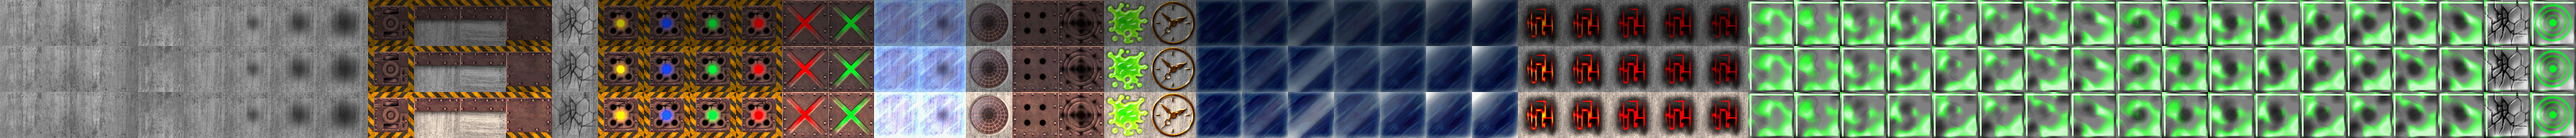
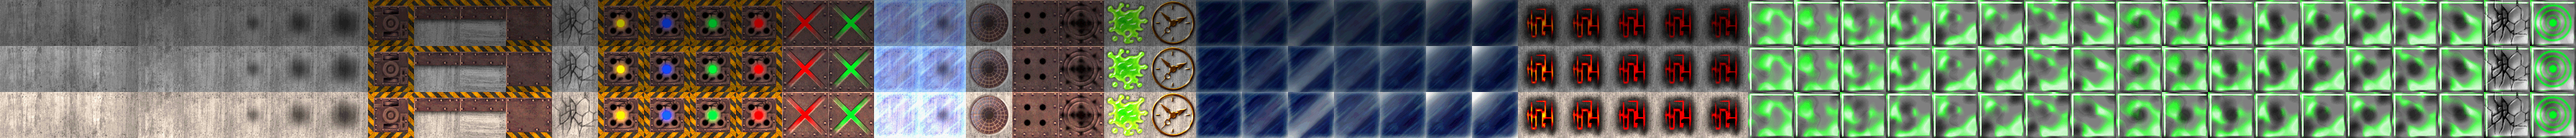
Paint each texture through the palette row its record names
The atlas took a texture's palettes from a scan of the VRAM page that
kept a row only where all 256 words carried the top bit and 32 of them
differed, and painted an index-grey ramp wherever the row the record
named was not among them, or a texture had no record, with no word said.
Arctic's nine stones, the four the world changes, the plain one with its
three shadowed variants and the cracked one, take palettes of 23 greys
in the dark shade and 25 in the bright, which the scan refused, so the
map drew their -y and +y faces through the ramp. The record already
names the row, so the atlas reads the 256 words there, and stops on a
texture without a record or a row outside the page. Arctic's atlas is
rebuilt from the disc; the other nine come out as they were.

diff --git a/tools/tests/test_kula_tex.py b/tools/tests/test_kula_tex.py
@@ -1,0 +1,76 @@
+"""Unit tests for the atlas writer: python3 -m unittest discover -s tools/tests
+
+Nothing here needs the disc.
+"""
+
+import struct
+import sys
+import unittest
+from pathlib import Path
+
+sys.path.insert(0, str(Path(__file__).resolve().parents[1]))
+
+import kula_tgi as tgi  # noqa: E402
+from kula_tex import SHADES, SIZE, atlas  # noqa: E402
+
+TEX_AT = (64, 0)
+ROWS = (5, 6, 7)
+# every index 16 times over, so each palette entry is painted somewhere
+PIXELS = bytes(range(256)) * 16
+
+PALETTES = {
+    5: [0x8000 | (v & 31) | ((v >> 3) << 10) for v in range(256)],
+    # index 0 without its top bit, as a transparent black is stored
+    6: [0] + [0x8000 | (v << 5) | 7 for v in range(1, 256)],
+    # fourteen greys
+    7: [0x8000 | ((v // 19 + 10) * 0x421) for v in range(256)],
+}
+
+
+def upload(x, y, w, h, words):
+    return struct.pack("<4H", x, y, w, h) + words
+
+
+def tgi_blob(rows=ROWS, record=True):
+    art = upload(*TEX_AT, 32, 64, PIXELS)
+    for row, words in PALETTES.items():
+        art += upload(768, row, 256, 1, struct.pack("<256H", *words))
+    rec = [0] * tgi.MAP_STRIDE
+    rec[3], rec[4] = TEX_AT
+    rec[5:5 + SHADES] = rows
+    quads = struct.pack(f"<{tgi.MAP_STRIDE}H", *rec) if record else b""
+    counts = [0] * tgi.SECTIONS
+    counts[tgi.MAP] = len(quads) // 2
+    counts[tgi.ART] = len(art) // 2
+    header = bytearray(tgi.HEADER)
+    struct.pack_into(f"<{tgi.SECTIONS}I", header, tgi.COUNTS_AT, *counts)
+    return bytes(header) + quads + art
+
+
+class TheAtlas(unittest.TestCase):
+    def test_each_shade_is_painted_through_the_palette_row_its_record_names(self):
+        W, H, px, n = atlas(tgi_blob())
+        self.assertEqual((W, H, n), (SIZE, SHADES * SIZE, 1))
+        for k, row in enumerate(ROWS):
+            for v in (0, 1, 77, 255):
+                y, x = divmod(PIXELS.index(v), SIZE)
+                o = ((k * SIZE + y) * W + x) * 4
+                self.assertEqual(tuple(px[o:o + 4]), (*tgi.rgb(PALETTES[row][v]), 255))
+
+    def test_a_palette_the_heuristic_scan_refuses_is_read_all_the_same(self):
+        page = tgi.vram(tgi_blob())
+        self.assertEqual([row for row, _ in tgi.cluts(page)], [5])
+        self.assertEqual(tgi.palette(page, 6)[0], (0, 0, 0))
+        self.assertEqual(tgi.palette(page, 7)[0], tgi.rgb(PALETTES[7][0]))
+
+    def test_a_texture_without_a_record_stops_the_build(self):
+        with self.assertRaises(SystemExit):
+            atlas(tgi_blob(record=False))
+
+    def test_a_row_outside_vram_stops_the_build(self):
+        with self.assertRaises(SystemExit):
+            atlas(tgi_blob(rows=(5, 6, tgi.VRAM_H)))
+
+
+if __name__ == "__main__":
+    unittest.main()

diff --git a/tools/kula_tex.py b/tools/kula_tex.py
@@ -20,16 +20,19 @@ SIZE = 64
 
 def atlas(blob):
     page = tgi.vram(blob)
-    pals = dict(tgi.cluts(page))
     pmap = tgi.palette_map(blob)
     tex = tgi.textures(blob)
     W, H = len(tex) * SIZE, SHADES * SIZE
     px = bytearray(W * H * 4)
-    grey = [(i, i, i) for i in range(256)]
+    pals = {}
     for i, t in enumerate(tex):
         rows = pmap.get(i)
+        if rows is None:
+            sys.exit(f"texture {i} at ({t['x']}, {t['y']}) has no record naming its palettes")
         for k in range(SHADES):
-            pal = pals.get(rows[k], grey) if rows else grey
+            if rows[k] not in pals:
+                pals[rows[k]] = tgi.palette(page, rows[k])
+            pal = pals[rows[k]]
             for y in range(SIZE):
                 src = t["at"] + y * SIZE
                 o = ((k * SIZE + y) * W + i * SIZE) * 4

diff --git a/tools/kula_tgi.py b/tools/kula_tgi.py
@@ -85,6 +85,13 @@ def cluts(page):
     return out
 
 
+def palette(page, row):
+    """The 256 colours of the palette parked at VRAM x=768 on `row`."""
+    if not 0 <= row < VRAM_H:
+        sys.exit(f"palette row {row} lies outside VRAM")
+    return [rgb(v) for v in struct.unpack_from("<256H", page, (row * VRAM_W + 768) * 2)]
+
+
 def textures(blob):
     return [b for b in blits(blob)[0] if (b["w"], b["h"]) == TEX]
 

diff --git a/docs/tgi.md b/docs/tgi.md
@@ -22,7 +22,7 @@ The filenames are built at `0x8004ccf8`, which takes a world index, an extension
 
 **Each world ships 56 textures.** They arrive as 32x64-word uploads, which is 64x64 pixels at 8bpp, and each carries three smaller levels: 8x32, 4x16 and 2x8 words. Those only make sense as 32x32, 16x16 and 8x8 at 4bpp, so the mip levels are half-depth. 56 of each, four levels, 224 uploads.
 
-**Palettes are two uploads parked off the side of the page**, 256 words wide at VRAM x=768, one 72 rows tall and one 25, giving 96 palettes of 256 colours. They are ordinary VRAM writes like anything else, which is why looking for them by scanning the file for smooth 16-bit runs found impostors: pixel data read as colour is smooth too.
+**Palettes are two uploads parked off the side of the page**, 256 words wide at VRAM x=768, one 72 rows tall and one 25, giving 96 palettes of 256 colours. They are ordinary VRAM writes like anything else, which is why looking for them by scanning the file for smooth 16-bit runs found impostors: pixel data read as colour is smooth too. Arctic's stones show that a scan is no way to pick them out either: their palettes hold 23 greys in the dark shade and 25 in the bright, which a scan asking for 32 distinct words refuses, so the atlas reads the rows a texture's record names and nothing else.
 
 **Section 6 pairs each texture with its palettes.** A CLUT id for a palette at VRAM x=768 is `(row << 6) | 48`, so `id & 63 == 48` is a fingerprint, and section 6 is 16.5% such values against a fraction of a percent everywhere else. Its record is 20 `u16`, 427 of them, and the fingerprint falls on fixed slots within that stride.
 
